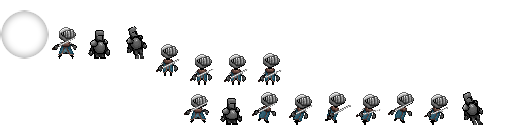
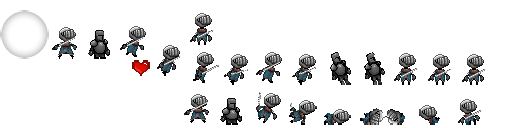
More Stuff

Changed region(s): [[0.2188, 0.1875, 0.9688, 0.6875], [0.4688, 0.7188, 0.9688, 1.0], [0.375, 0.0938, 0.4375, 0.3438]]

diff --git a/LudumDare39/core/src/com/gurbx/ld39/player/Player.java b/LudumDare39/core/src/com/gurbx/ld39/player/Player.java
@@ -26,9 +26,13 @@ public class Player implements GameInterface {
 	private EnemyHandler enemyHandler;
 	
 	private Animation currentAnimation;
-	private Animation stand, jump, run;
+	private Animation stand, jump, run, roll;
 	private float elapsedTime;
 	private boolean flipX;
+	private boolean rolling;
+	private boolean jumping;
+	private final float ROLL_TIME = 1/18f*7f;
+	private float rollingTimer;
 	
 	public Player(World world, TextureAtlas generalAtlas) {
 		this.world = world;
@@ -57,12 +61,12 @@ public class Player implements GameInterface {
 	    	runFrames[i] = atlas.findRegion("playerRun" + (i+1));
 	    }
 	    run = new Animation(1/8f, runFrames);  
-	    //SLIDE
-//		TextureRegion[] slideFrames = new TextureRegion[2];
-//	    for (int i = 0; i < slideFrames.length; i++) {
-//	    	slideFrames[i] = atlas.findRegion("playerSlide" + (i+1));
-//	    }
-//	    slide = new Animation(1/12f, slideFrames);  
+	    //ROLL
+		TextureRegion[] rollFrames = new TextureRegion[7];
+	    for (int i = 0; i < rollFrames.length; i++) {
+	    	rollFrames[i] = atlas.findRegion("playerRoll" + (i+1));
+	    }
+	    roll = new Animation(1/18f, rollFrames);  
 	    //JUMP
 		TextureRegion[] jumpFrames = new TextureRegion[2];
 	    for (int i = 0; i < jumpFrames.length; i++) {
@@ -93,7 +97,7 @@ public class Player implements GameInterface {
 	private void handleAttack(float delta) {
 		if (Gdx.input.isKeyJustPressed(Keys.D)) {
 			ParticleEffectHandler.addParticleEffect(ParticleEffectType.HIT, position.x, position.y);
-			enemyHandler.attack(position.x, position.y, 32, 1, 1000);
+			enemyHandler.attack(position.x, position.y, 32, 1, 400);
 		}
 		
 	}
@@ -108,43 +112,79 @@ public class Player implements GameInterface {
 			}
 		}
 		
+		if (rolling) currentAnimation = roll;
+		
 	}
 
 	private void handleGravity(float delta) {
 		if (!world.isStoppedByGround(position.x, position.y, width, height)) {
 			yModifier += world.getGravity() * delta;
 		} else {
+			jumping = false;
 			yModifier = 0;
 			position.y = world.getGroundHeight() + height*0.5f;
 			//JUMP
 			if (Gdx.input.isKeyPressed(Keys.UP)) {
-				yModifier = - 10f;
+				yModifier = - 400f;
+				jumping = true;
 			}
 		}
-		position.y -= yModifier;
+		position.y -= yModifier * delta;
 	}
 
 	private void handleMovement(float delta) {
+		rollingTimer-=delta;
+		if (rollingTimer <= 0) rolling = false;
+		
+		boolean moving = false;
 		if (Gdx.input.isKeyPressed(Keys.LEFT)) {
+			moving = true;
 			flipX = true;
-			xModifier -= delta * ACCELERATION;
-			if (xModifier < -MAX_SPEED) xModifier = -MAX_SPEED;
+			if (!rolling) xModifier -= delta * ACCELERATION;
+			if (xModifier < -MAX_SPEED && !rolling) xModifier = -MAX_SPEED;
 		}
 		if (Gdx.input.isKeyPressed(Keys.RIGHT)) {
+			moving = true;
 			flipX = false;
-			xModifier += delta * ACCELERATION;
-			if (xModifier > MAX_SPEED) xModifier = MAX_SPEED;
+			if (!rolling) xModifier += delta * ACCELERATION;
+			if (xModifier > MAX_SPEED && !rolling) xModifier = MAX_SPEED;
 		}
 		
+		//Deacceleration
 		position.x += xModifier;
-		if (xModifier > 0) {
+		if (xModifier > 0 && !jumping) {
 			xModifier -= DEACCELERATION * delta;
+			if (rolling) xModifier -= DEACCELERATION * delta;
 		}
-		if (xModifier < 0) {
+		if (xModifier < 0  && !jumping) {
 			xModifier += DEACCELERATION * delta;
+			if (rolling) xModifier += DEACCELERATION * delta;
 		}
 		if (xModifier < 1f && xModifier > -1f) {
 			xModifier = 0;
+			rolling = false;
+		}
+		
+		//Roll
+		if (Gdx.input.isKeyJustPressed(Keys.DOWN)) {
+			if (rolling) return;
+			elapsedTime = 0;
+			rolling = true;
+			ParticleEffectHandler.addParticleEffect(ParticleEffectType.HIT, position.x, position.y);
+			rollingTimer = ROLL_TIME;
+			
+			float rollBoost = 15;
+			if (jumping) {
+				yModifier = - 400f;
+				rollBoost = 0;
+			}
+			
+			if (!flipX) {
+				xModifier += rollBoost;
+			}
+			if (flipX) {
+				xModifier -= rollBoost;
+			}
 		}
 		
 	}

diff --git a/LudumDare39/core/src/com/gurbx/ld39/screens/PlayScreen.java b/LudumDare39/core/src/com/gurbx/ld39/screens/PlayScreen.java
@@ -1,6 +1,7 @@
 package com.gurbx.ld39.screens;
 
 import com.badlogic.gdx.Gdx;
+import com.badlogic.gdx.Input.Keys;
 import com.badlogic.gdx.graphics.GL20;
 import com.badlogic.gdx.graphics.g2d.TextureAtlas;
 import com.badlogic.gdx.math.Vector3;
@@ -10,6 +11,7 @@ import com.gurbx.ld39.player.Player;
 import com.gurbx.ld39.utils.Input;
 import com.gurbx.ld39.utils.particles.ParticleEffectHandler;
 import com.gurbx.ld39.utils.sound.SoundHandler;
+import com.gurbx.ld39.utils.timewarp.TimeWarp;
 import com.gurbx.ld39.world.World;
 
 public class PlayScreen extends GameScreen {
@@ -20,6 +22,10 @@ public class PlayScreen extends GameScreen {
 	private Player player;
 	private Input input;
 	private EnemyHandler enemyHandler;
+	
+	
+	private TimeWarp timeWarp;
+	private float timeModifier;
 
 	public PlayScreen(Application app) {
 		super(app);
@@ -27,6 +33,7 @@ public class PlayScreen extends GameScreen {
 
 	@Override
 	public void show() {
+		timeWarp = new TimeWarp();
 //		sound = new SoundHandler(app);
 		generalAtlas = app.assets.get("img/generalPack.atlas", TextureAtlas.class);
 		particleHandler = new ParticleEffectHandler(generalAtlas);
@@ -38,15 +45,21 @@ public class PlayScreen extends GameScreen {
 		player.setEnemyHandler(enemyHandler);
 		
 		Gdx.input.setInputProcessor(input);
-		
 	}
 	
 	private void update(float delta) {
+		timeWarp.update(delta);
+		timeModifier = timeWarp.getTimeModifer();
 //		sound.update(delta);
 		player.update(delta);
-		world.update(delta);
+		world.update(delta*timeModifier);
 		handleCamera(delta);
-		enemyHandler.update(delta);
+		enemyHandler.update(delta*timeModifier);
+		
+		
+		if (Gdx.input.isKeyJustPressed(Keys.SPACE)) {
+			timeWarp.warpTime(15, 1f, 1f, 0.1f);
+		}
 	}
 
 	private void handleCamera(float delta) {
@@ -69,7 +82,7 @@ public class PlayScreen extends GameScreen {
 		app.batch.begin();
 		enemyHandler.render(app.batch);
 		player.render(app.batch);
-		particleHandler.render(app.batch, delta);
+		particleHandler.render(app.batch, delta*timeModifier);
 		app.batch.end();
 		
 	}

diff --git a/LudumDare39/core/src/com/gurbx/ld39/enemies/Enemy.java b/LudumDare39/core/src/com/gurbx/ld39/enemies/Enemy.java
@@ -28,6 +28,7 @@ public class Enemy implements GameInterface {
 	private Animation currentAnimation;
 	private float width, height;
 	private boolean flipX;
+	private boolean jumping;
 	
 	private float dx, dy;
 	
@@ -38,6 +39,7 @@ public class Enemy implements GameInterface {
 		shouldRemove = false;
 		this.position = position;
 		this.flipX = false;
+		jumping = false;
 	}
 	
 	
@@ -74,12 +76,13 @@ public class Enemy implements GameInterface {
 	}
 	
 	private void handleMovement(float delta) {
+		position.x += dx * delta;
+		if (jumping) return;
 		moveTowardsPlayer(delta);
 		if (Math.abs(dx) > 0) {
 			if (dx > 0) dx -= FRICTION * delta;
 			if (dx < 0) dx += FRICTION * delta;
 		}
-		position.x += dx * delta;
 		
 	}
 
@@ -102,10 +105,11 @@ public class Enemy implements GameInterface {
 		if (!world.isStoppedByGround(position.x, position.y, width, height)) {
 			yModifier += world.getGravity() * delta;
 		} else {
+			jumping = false;
 			yModifier = 0;
 			position.y = world.getGroundHeight() + height*0.5f;
 		}
-		position.y -= yModifier;
+		position.y -= yModifier*delta;
 	}
 	
 	
@@ -151,9 +155,9 @@ public class Enemy implements GameInterface {
 		dx = MathUtils.cos(radians) * impact;
 //		dy = MathUtils.sin(radians) * impact;
 		
-		yModifier = - 0.01f*impact;
+		jumping = true;
+		yModifier = - impact;
 		position.y += 1f;
-		position.y -= yModifier;
 		
 	}
 	

diff --git a/LudumDare39/core/src/com/gurbx/ld39/world/World.java b/LudumDare39/core/src/com/gurbx/ld39/world/World.java
@@ -13,7 +13,7 @@ import com.gurbx.ld39.Application;
 import com.gurbx.ld39.utils.GameInterface;
 
 public class World implements GameInterface {
-	private final float GRAVITY = 20f;
+	private final float GRAVITY = 800f;
 	private final Application app;
 	private float groundX, groundY;
 	private float groundWidth, groundHeight;
